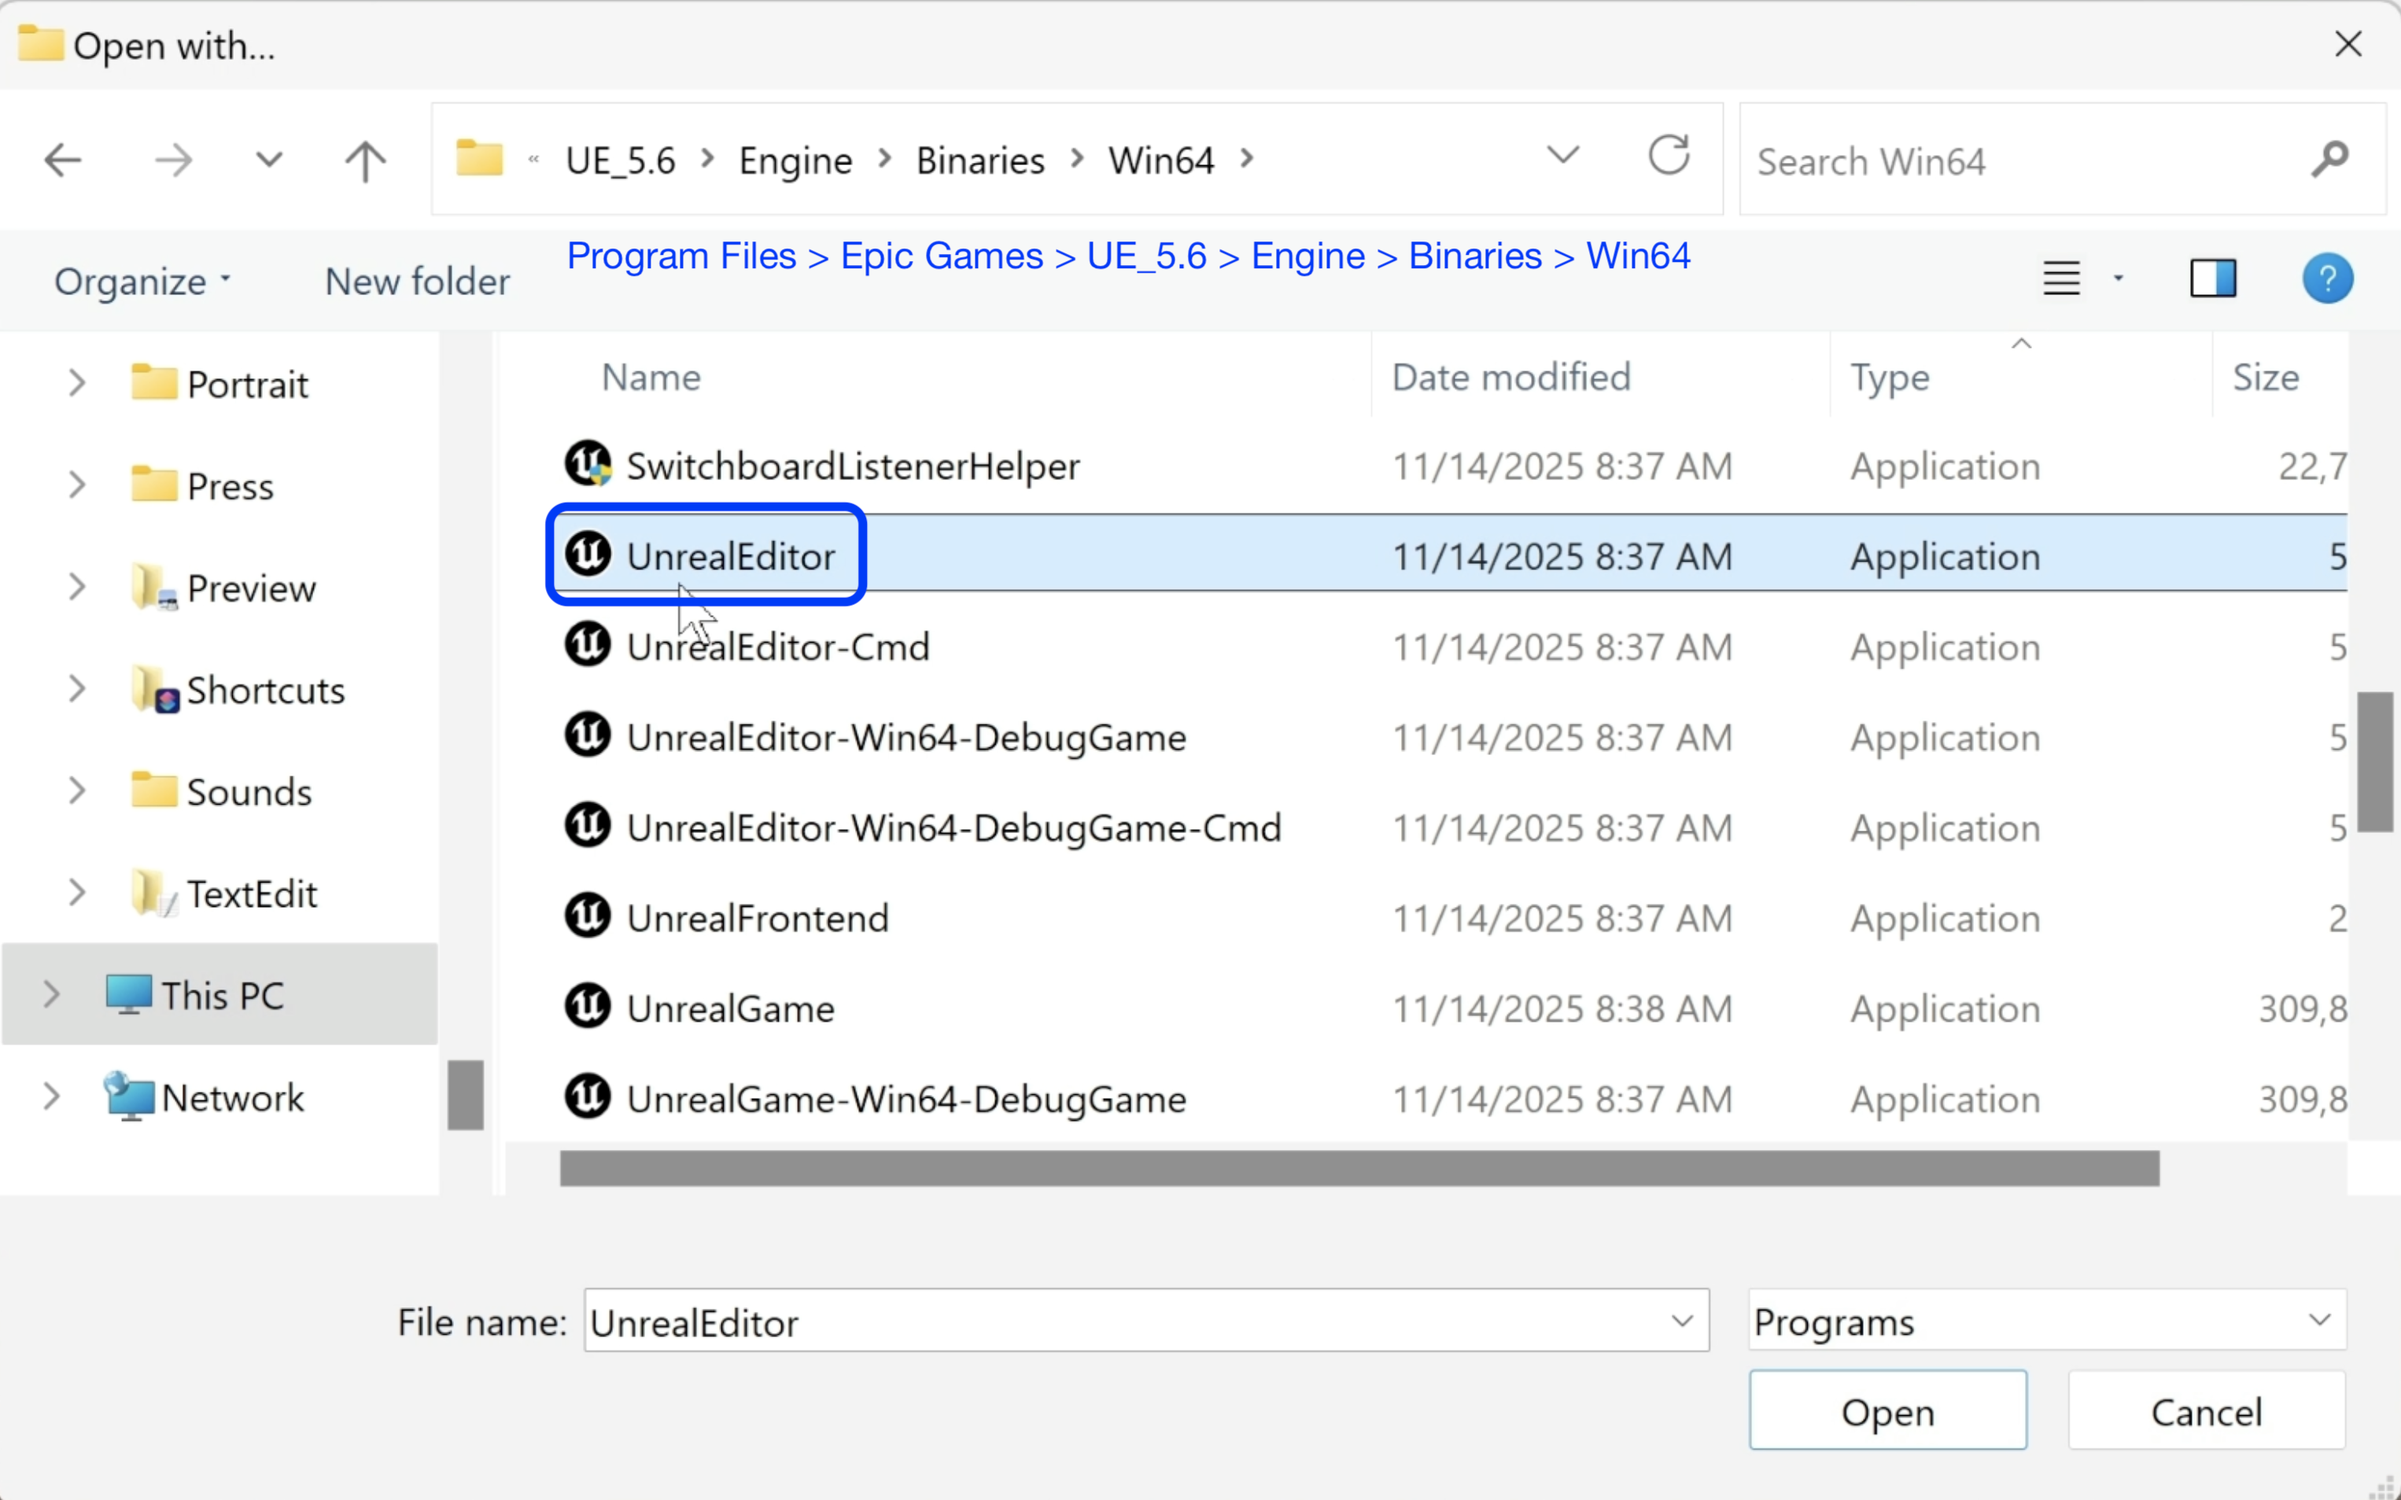
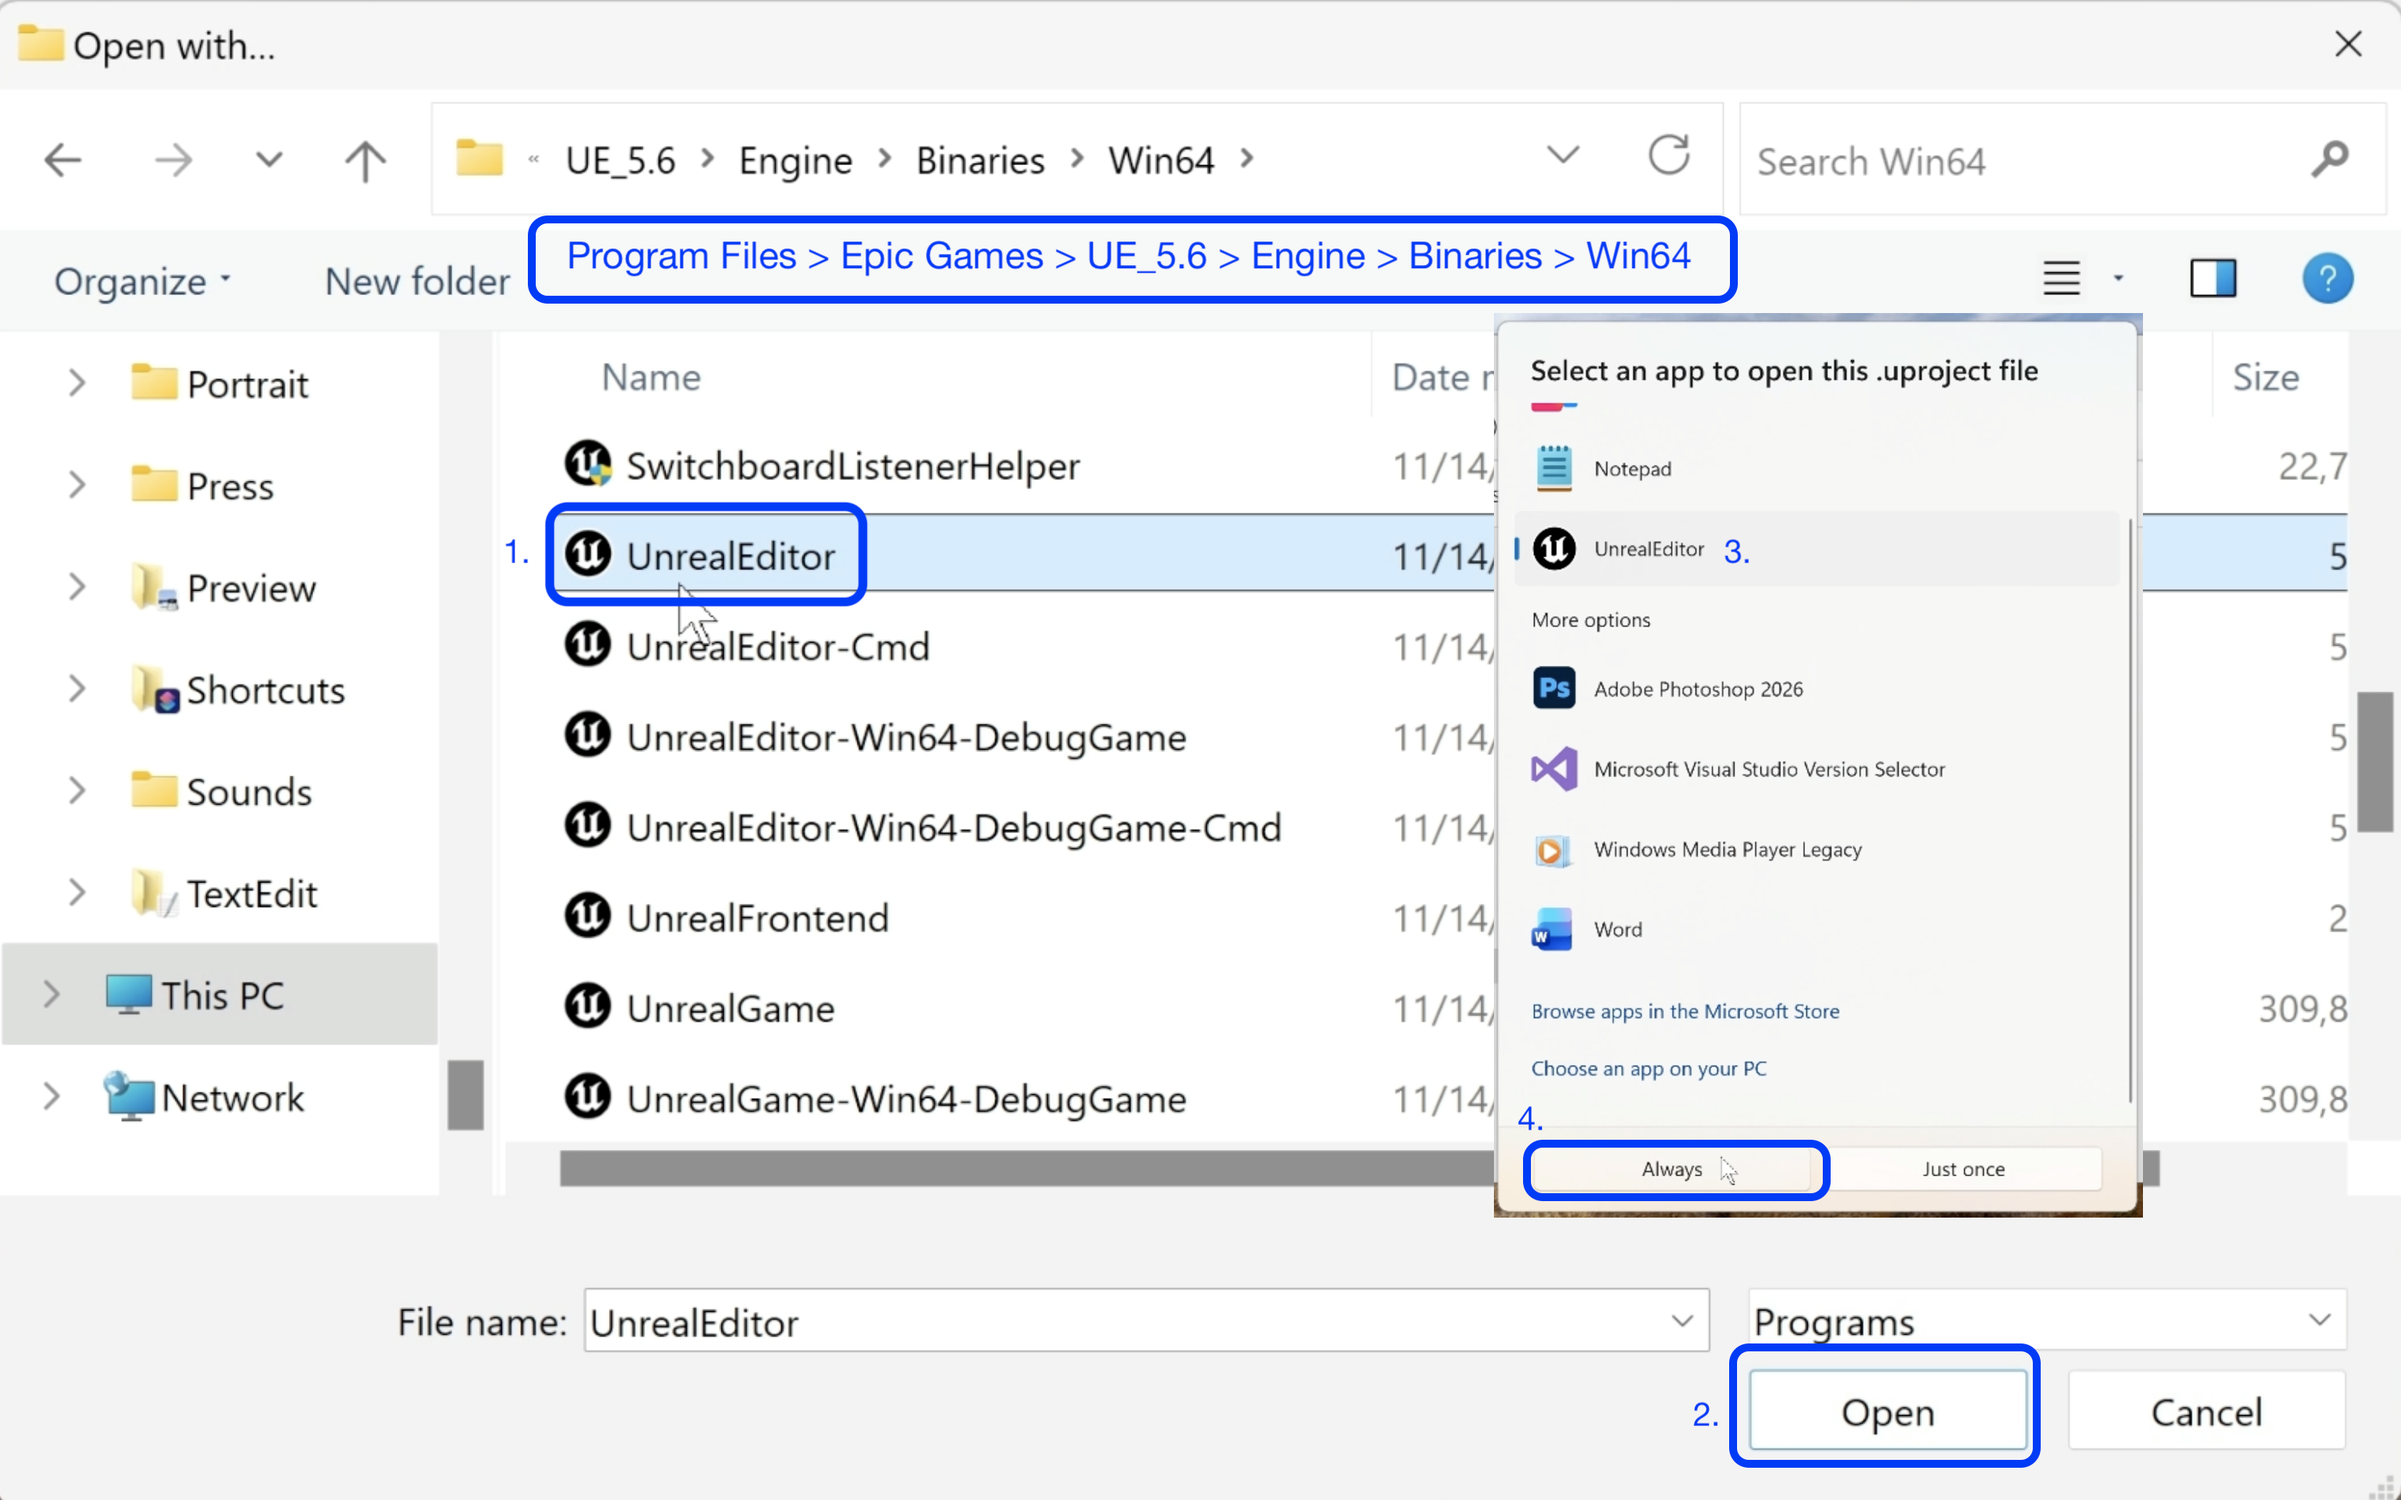
adding content test

Changed region(s): [[0.2179, 0.1238, 0.9027, 0.8353], [0.7159, 0.8972, 0.8716, 0.99], [0.7782, 0.5878, 0.8404, 0.6188]]

diff --git a/fa/README.md b/fa/README.md
@@ -18,7 +18,7 @@ If you have a blank page next to your Unreal 5 `.uproject` file then you will no
 
 ![no ue icon on uproject file](./images/WontRunInEditor.png)
 
-![](./images/line3.png)
+![](../images/line3.png)
 ##### `Step 2.`\|`P4VUE5`|🔹🔹
 
 Right click on the `.uproject` file and select **Open with** then in the next pop up if there is no **Unreal** icon then select **Choose another app**. If there is still no Unreal app then select **Choose an app on your PC**. 
@@ -29,124 +29,80 @@ Right click on the `.uproject` file and select **Open with** then in the next po
 
 ##### `Step 3.`\|`P4VUE5`|🔹🔹🔹
 
-![alt text](images/.png)
+Select `UnrealEditor.exe` and select **Open**.  On the pop-up select **Always** to lock in Unreal editor.
+
+![Make an association betwee .uproject and unreal editor](images/LinkToEditor.png)
 
 ![](../images/line3.png)
 
 ##### `Step 4.`\|`P4VUE5`|🔹🔹🔹🔹
 
-![alt text](images/LinkToEditor.png)
+Now you see a link to the Unreal editor using the black **U** logo that is tied to that specific version of the engine.  There are two problems, if you have multiple versions of the engine the wrong one will try and load the project and there is no context menu to generate a Visual Studio solution file.  For that we need to run it through the 
+
+![black U icon on .uproject file](images/TiedToEditor.png)
 
 ![](../images/line3.png)
 
 ##### `Step 5.`\|`P4VUE5`| 🔸
 
-![alt text](images/.png)
+So for it to work better, automatically pick the correct installed version of Unreal and give you the context menu to generate visual studio files and more go to `Program Files > Epic Game > Launcher > Engine > Binaries > Win64` and copy to your clipboard the `UnrealVersionSelector` app. 
+
+![copy UnrealVersionSelector](images/VersionSelector.png)
 
 ![](../images/line3.png)
 
 ##### `Step 6.`\|`P4VUE5`| 🔸🔹
 
-![alt text](images/.png)
+Go to `Program Files > Epic Game > UE_5.X > Engine > Binaries > Win64` and paste the file there.  Right click on `UnrealVersionSelector` and select **Run as administrator**. You will get a pop up that says to register the directory as an Unreal Engine installation.  Select **Yes**.  If it is succesful it will say **Registration Successful**.
+
+![paste unreal version selector and run as administrator](images/PasteAndRunAsAdmin.png)
 
 ![](../images/line3.png)
 
 ##### `Step 7.`\|`P4VUE5`| 🔸🔹🔹
-![alt text](images/.png)
+
+Now right click on your `.uproject` file and select **PFTDigitalTwin** - then select **Choose another app** so you can relink it to this new executable.
+
+![create new link to version selector](images/SetNewLink.png)
 
 ![](../images/line3.png)
 
 ##### `Step 8.`\|`P4VUE5`| 🔸🔹🔹🔹
 
-![alt text](images/.png)
+Now select the blue icon for Unreal Engine that points to the **UnrealVersionSelector** app. Select **Always**.  Now you should have a blue icon.
+
+![relink to version selector](images/RelinkToVersionSelector.png)
 
 ![](../images/line3.png)
 
 ##### `Step 9.`\|`P4VUE5`| 🔸🔹🔹🔹🔹
 
-![alt text](images/.png)
+Now that we have the blue icon we also might want to generate a solution file for our C++ project. So the first method for creating a solution file is to right click the blue `.uproject` file and select **More options**.  Then select **Generate Visual Studio project files**. Wait a bit and you should get a visual studio solution.
+
+![right click uproject to generate solution](images/GenerateSolutionFile.png)
 
 ![](../images/line3.png)
 
 ##### `Step 10.`\|`P4VUE5`| 🔷
 
-![alt text](images/.png)
+The second way to create a visual solution file and project files is through the editor.  So if you have a valid set of binaries and can just launch the game directly without going into your **IDE**, then launch the game - then select **Tools > Generate Visual Studio Project**. This will effectively do the same thing.
+
+![generate visual studio solution through game](images/GenerateVisualStudioFileInEngine.png)
 
 ![](../images/line3.png)
 
 ##### `Step 11.`\|`P4VUE5`| 🔷🔹
 
-![alt text](images/.png)
+The final solution is to run it through command prompt.  Go to **Windows > R** then select **Command Prompt**.  Right click on it then type in your full project directory: `./UnrealBuildTool.exe -projectfiles -project="D\\Location\for\ProjectName.uproject" -game -engine` and run it in command prompt.
+
+
+![create solution in command prompt](images/RunThroughCommandLine.png)
 
 ![](../images/line3.png)
-
-
-##### `Step 11.`\|`P4VUE5`| 🔷🔹🔹
-
-![alt text](images/.png)
-
-![](../images/line3.png)
-
-##### `Step 13.`\|`P4VUE5`| 🔷🔹🔹🔹
-
-![alt text](images/.png)
-
-![](../images/line3.png)
-
-##### `Step 14.`\|`P4VUE5`| 🔷🔹🔹🔹🔹
-
-![alt text](images/.png)
-
-![](../images/line3.png)
-
-##### `Step 15.`\|`P4VUE5`| 🔷🔸
-
-![alt text](images/.png)
-
-![](../images/line3.png)
-
-##### `Step 16.`\|`P4VUE5`| 🔷🔸🔹
-
-![alt text](images/.png)
-
-![](../images/line3.png)
-
-##### `Step 17.`\|`P4VUE5`| :🔷🔸🔹🔹
-
-![alt text](images/.png)
-
-![](../images/line3.png)
-
-##### `Step 18.`\|`P4VUE5`| 🔷🔸🔹🔹🔹
-
-![alt text](images/.png)
-
-![](../images/line3.png)
-
-##### `Step 19.`\|`P4VUE5`| 🔷🔸🔹🔹🔹🔹
-
-![alt text](images/.png)
-
-![](../images/line3.png)
-
-##### `Step 20.`\|`P4VUE5`|  🔷🔷
-
-![alt text](images/.png)
-
-![](../images/line3.png)
-
-##### `Step 21.`\|`P4VUE5`|  🔷🔷🔹
-
-![alt text](images/.png)
 
 
 ___
 
-![](../images/line.png)
-
-<img src="https://via.placeholder.com/1000x100/45D7CA/000000/?text=Next Up - README.md File">
-
-![](../images/line.png)
 
 | [home](../README.md#user-content-ue4-hello-world)|
 |---|
